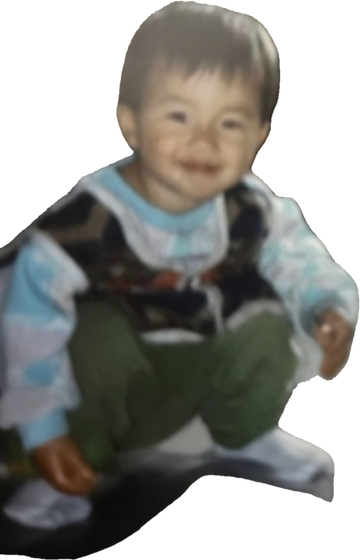
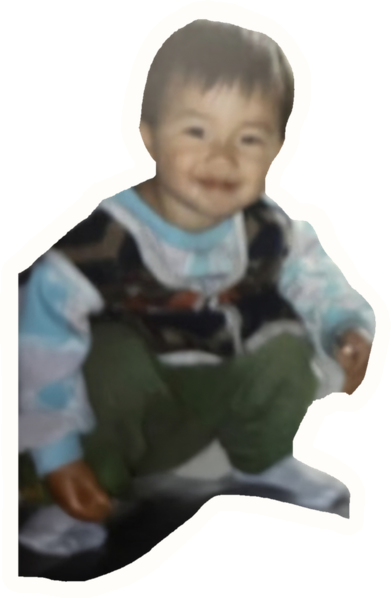
신랑 아기사진2 교체, 아기 사진 4장에 손으로 따라 그린 흰 테두리 적용, 손그림 아이콘을 연필 스케치 스캔 이미지로 교체

diff --git a/js/main.js b/js/main.js
@@ -193,42 +193,24 @@
 
   /* ═══════════ 3.5 부모님의 편지 ═══════════ */
 
-  /* ── 아기 사진 옆 손그림 아이콘 (꽃 · 자전거 · 풍선 · 별) ── */
-  const BABY_DOODLES = {
-    flower: '<svg viewBox="0 0 60 70"><path d="M30 40c-1 8-3 16-7 24"/><path d="M23 52c-6-1-11-4-14-9 6-2 11-1 15 4"/><path d="M27 58c5-3 10-4 15-2-3 5-8 8-14 7"/>'
-      + '<path d="M30 12c5-4 12-1 12 5 0 3-2 6-5 7 4 1 7 5 6 9-1 5-7 8-11 5-1 4-5 7-9 6-5-1-8-6-6-11-4 0-8-4-7-9 1-4 5-7 9-6-1-5 3-9 7-9 2 0 3 1 4 3z"/>'
-      + '<circle cx="30" cy="26" r="4.5"/></svg>',
-    bike: '<svg viewBox="0 0 84 56"><circle cx="17" cy="38" r="13"/><circle cx="66" cy="38" r="13"/>'
-      + '<path d="M17 38l13-20h16l7 20"/><path d="M30 18l20 1"/><path d="M53 38l-7-20 6-6"/>'
-      + '<path d="M45 10h10"/><path d="M30 18l-4-8h-8"/></svg>',
-    balloon: '<svg viewBox="0 0 46 74"><path d="M23 4c9 0 16 8 16 18 0 12-10 22-16 24-6-2-16-12-16-24C7 12 14 4 23 4z"/>'
-      + '<path d="M20 46l3 5 3-5"/><path d="M23 51c4 6-4 9 0 15 3 5-2 6-2 6"/></svg>',
-    star: '<svg viewBox="0 0 54 54"><path d="M27 6c2 9 5 13 14 15-9 2-12 6-14 15-2-9-5-13-14-15 9-2 12-6 14-15z"/>'
-      + '<path d="M44 38c1 4 2 5 6 6-4 1-5 2-6 6-1-4-2-5-6-6 4-1 5-2 6-6z"/>'
-      + '<path d="M10 33c.8 3 1.6 4 4.5 4.6-2.9.7-3.7 1.6-4.5 4.6-.8-3-1.6-4-4.5-4.6 2.9-.7 3.7-1.6 4.5-4.6z"/></svg>',
-    rattle: '<svg viewBox="0 0 56 70"><circle cx="27" cy="22" r="18"/><circle cx="27" cy="22" r="7"/>'
-      + '<path d="M27 40v18"/><rect x="20" y="58" width="14" height="9" rx="4"/></svg>',
-    cloud: '<svg viewBox="0 0 78 46"><path d="M20 38c-8 0-14-5-14-12S12 14 20 14c2-7 9-11 16-9 5 1 8 5 9 9 8-1 15 4 16 12 0 7-6 12-14 12z"/>'
-      + '<path d="M26 44h6M40 44h9M56 44h5"/></svg>',
-  };
-
-  // 각 사진 주변에 놓을 위치 (사진 바깥 여백에 걸치도록)
+  /* ── 아기 사진 옆 손그림 아이콘 (연필로 그려 스캔한 이미지) ── */
   const DOODLE_SPOTS = [
-    { k: "flower", cls: "d1" },
-    { k: "bike",   cls: "d2" },
-    { k: "star",   cls: "d3" },
-    { k: "balloon", cls: "d4" },
+    { k: "flower",  cls: "d1", w: 42 },
+    { k: "bike",    cls: "d2", w: 66 },
+    { k: "star",    cls: "d3", w: 38 },
+    { k: "balloon", cls: "d4", w: 32 },
   ];
   const DOODLE_SPOTS_ALT = [
-    { k: "flower", cls: "d1" },
-    { k: "rattle", cls: "d2" },
-    { k: "star",   cls: "d3" },
-    { k: "cloud",  cls: "d4" },
+    { k: "flower", cls: "d1", w: 40 },
+    { k: "rattle", cls: "d2", w: 40 },
+    { k: "star",   cls: "d3", w: 34 },
+    { k: "cloud",  cls: "d4", w: 46 },
   ];
   function doodleHtml(alt) {
-    return (alt ? DOODLE_SPOTS_ALT : DOODLE_SPOTS)
-      .map((d) => `<span class="parents__doodle parents__doodle--${d.cls}">${BABY_DOODLES[d.k]}</span>`)
-      .join("");
+    return (alt ? DOODLE_SPOTS_ALT : DOODLE_SPOTS).map((d) =>
+      `<img class="parents__doodle parents__doodle--${d.cls}" style="width:${d.w}px"`
+      + ` src="assets/doodles/${d.k}.png" alt="" aria-hidden="true" loading="lazy" />`
+    ).join("");
   }
 
   function renderParents() {

diff --git a/css/style.css b/css/style.css
@@ -1464,28 +1464,20 @@ body.no-scroll { overflow: hidden; height: 100vh; }
   transform: rotate(-9deg);
 }
 
-/* 아기 사진 주변 손그림 아이콘 */
+/* 아기 사진 주변 손그림 아이콘 (연필 스케치 스캔 이미지) */
 .parents__doodle {
   position: absolute;
   z-index: 3;
-  pointer-events: none;
-  color: #c2778c;
-  opacity: .85;
-}
-.parents__doodle svg {
   display: block;
-  width: 100%;
   height: auto;
-  fill: none;
-  stroke: currentColor;
-  stroke-width: 2.6;
-  stroke-linecap: round;
-  stroke-linejoin: round;
+  pointer-events: none;
+  opacity: .78;
+  mix-blend-mode: multiply;   /* 연필이 종이에 스며든 느낌 */
 }
-.parents__doodle--d1 { width: 40px; right: -34px; top: -22px; transform: rotate(9deg); }
-.parents__doodle--d2 { width: 62px; left: -44px; bottom: -30px; transform: rotate(-6deg); }
-.parents__doodle--d3 { width: 34px; left: -30px; top: 42%; transform: rotate(-14deg); opacity: .7; }
-.parents__doodle--d4 { width: 30px; left: 36%; bottom: -46px; transform: rotate(8deg); opacity: .75; }
+.parents__doodle--d1 { right: -36px; top: -26px; transform: rotate(9deg); }
+.parents__doodle--d2 { left: -46px; bottom: -32px; transform: rotate(-6deg); }
+.parents__doodle--d3 { left: -32px; top: 42%; transform: rotate(-14deg); opacity: .66; }
+.parents__doodle--d4 { left: 36%; bottom: -50px; transform: rotate(8deg); opacity: .7; }
 
 /* 손편지 — 살짝 기울인 카드 + 테이프 */
 .parents__letter {

diff --git a/js/config.js b/js/config.js
@@ -108,8 +108,7 @@ const WEDDING_CONFIG = {
       who: "형규",
       family: "assets/parents/groom-family.jpg",
       letterImage: "assets/parents/groom-letter.jpg",
-      // ★ groom-baby2.png 는 baby1과 같은 사진이라 잠시 빼두었습니다. 다른 사진이 생기면 다시 추가하세요.
-      babies: ["assets/parents/groom-baby1.png"],
+      babies: ["assets/parents/groom-baby1.png", "assets/parents/groom-baby2.png"],
     },
   },
 
